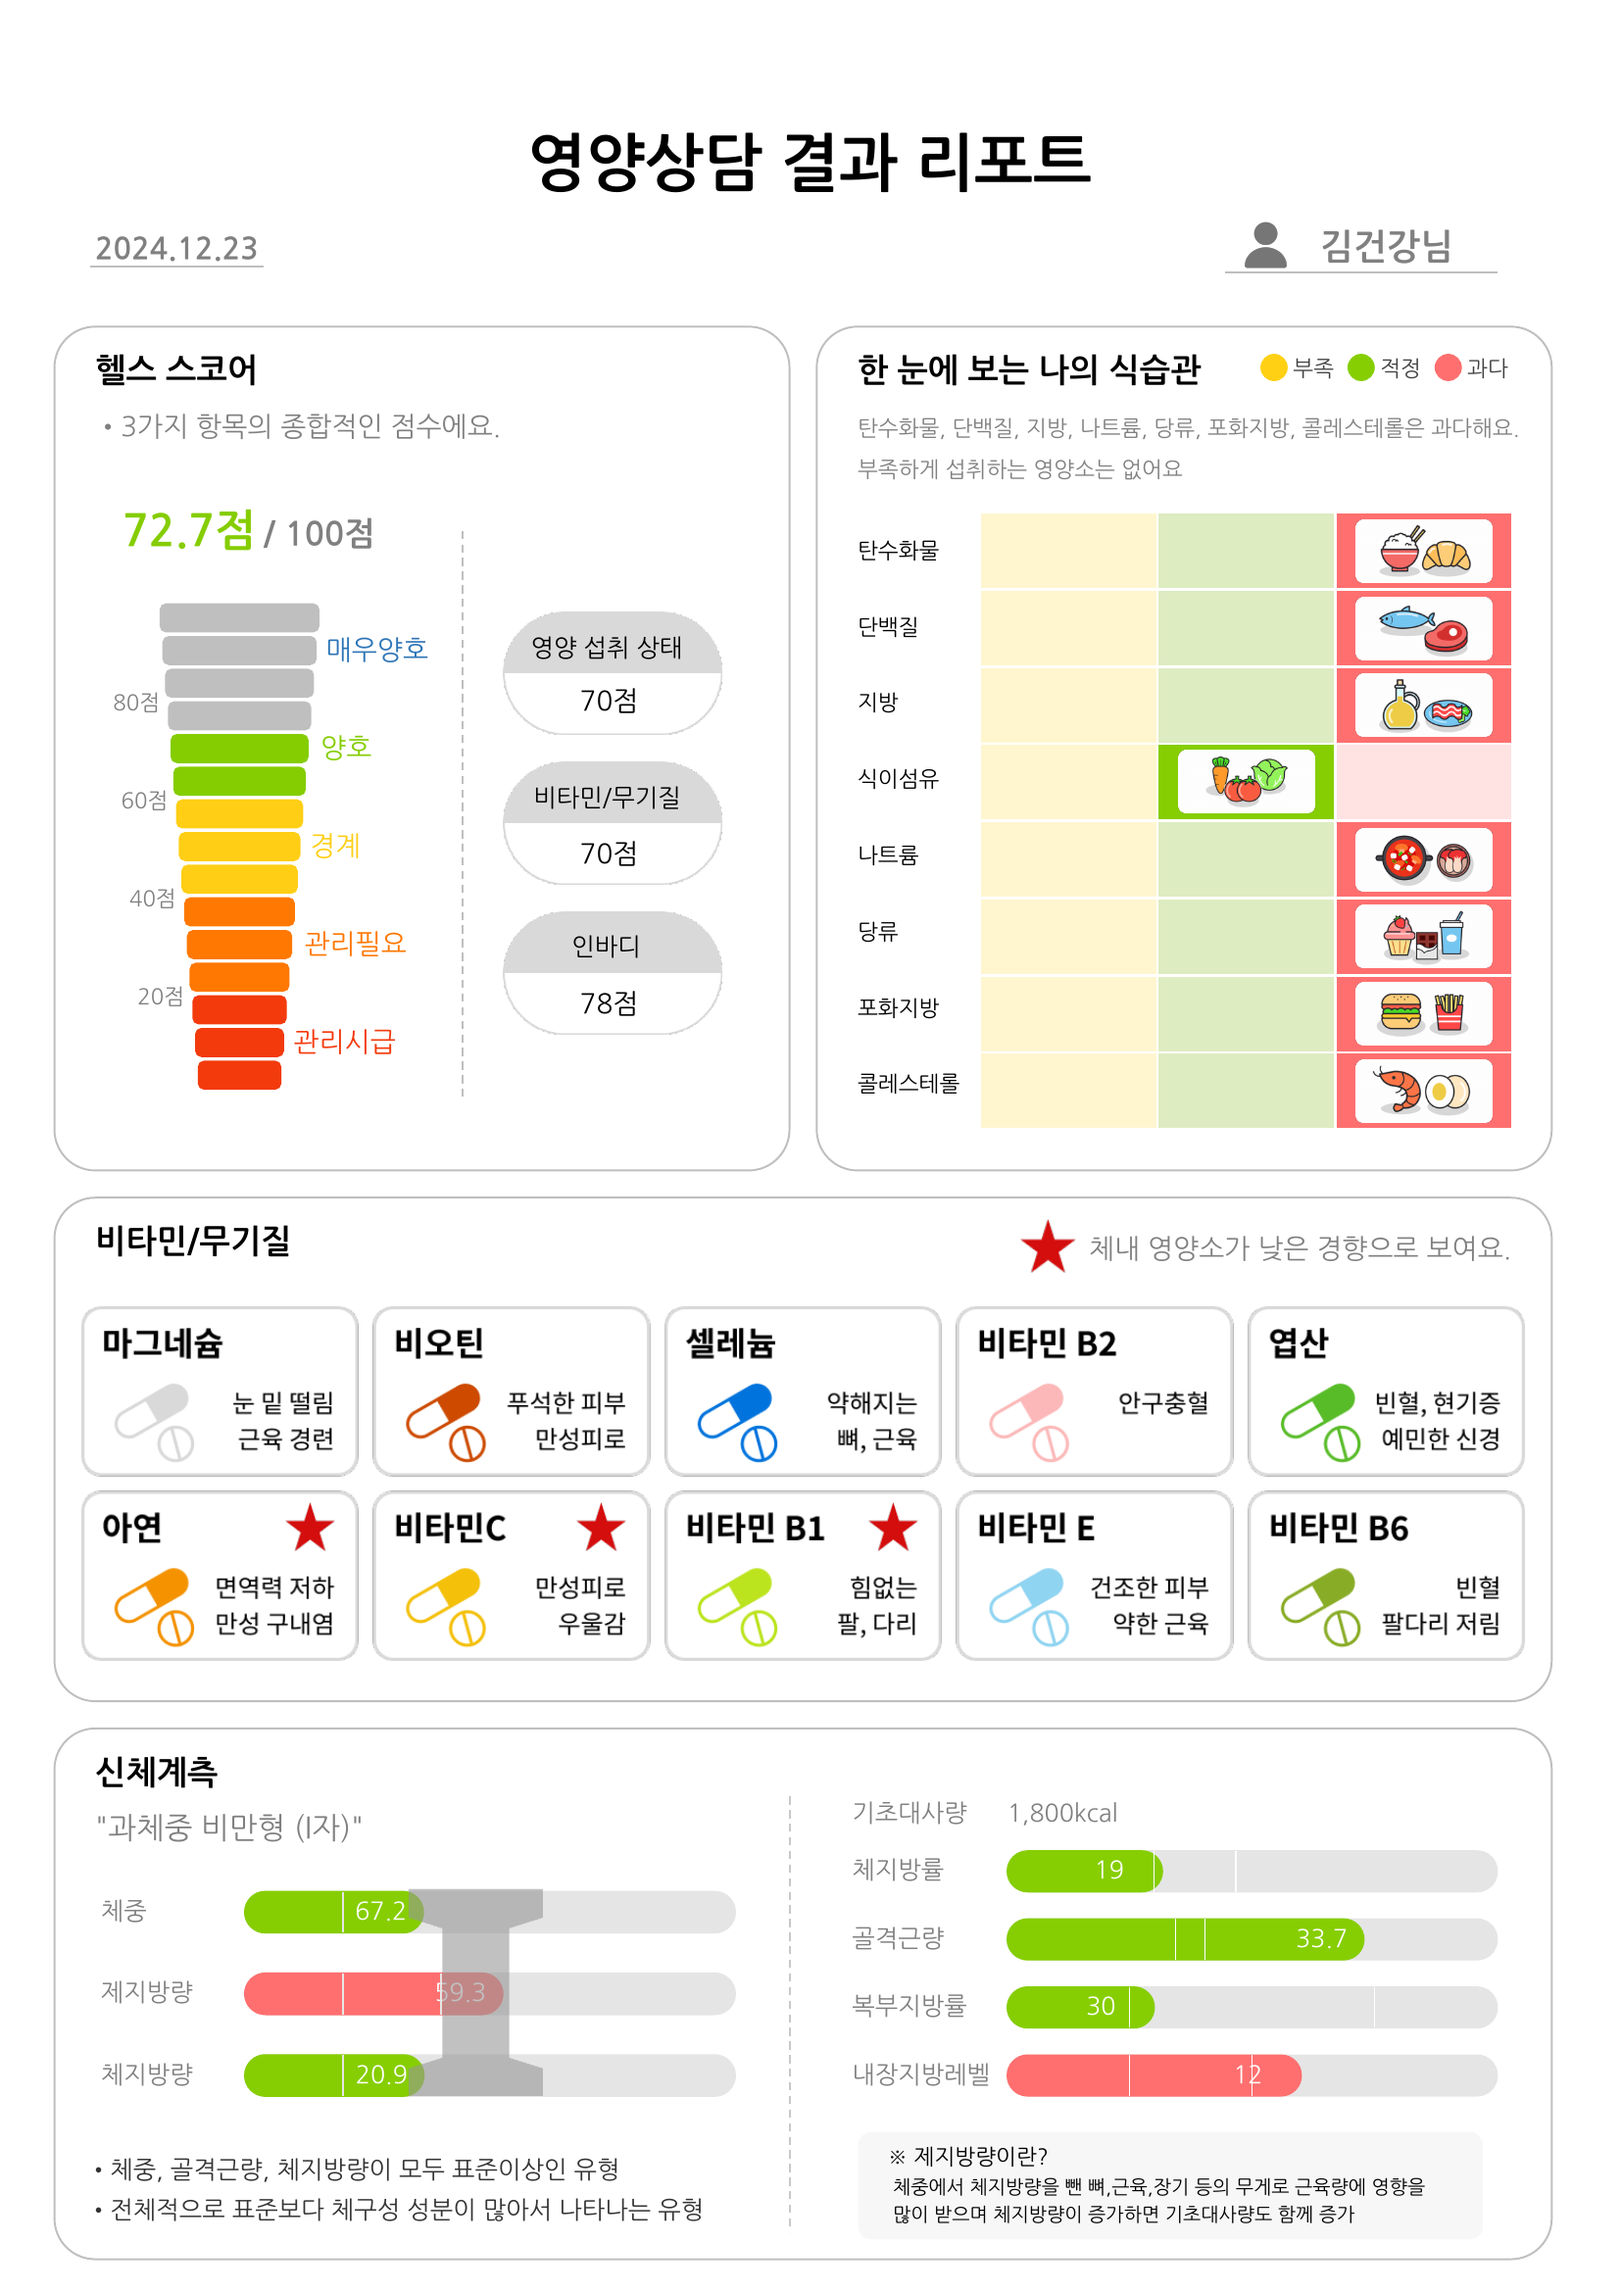
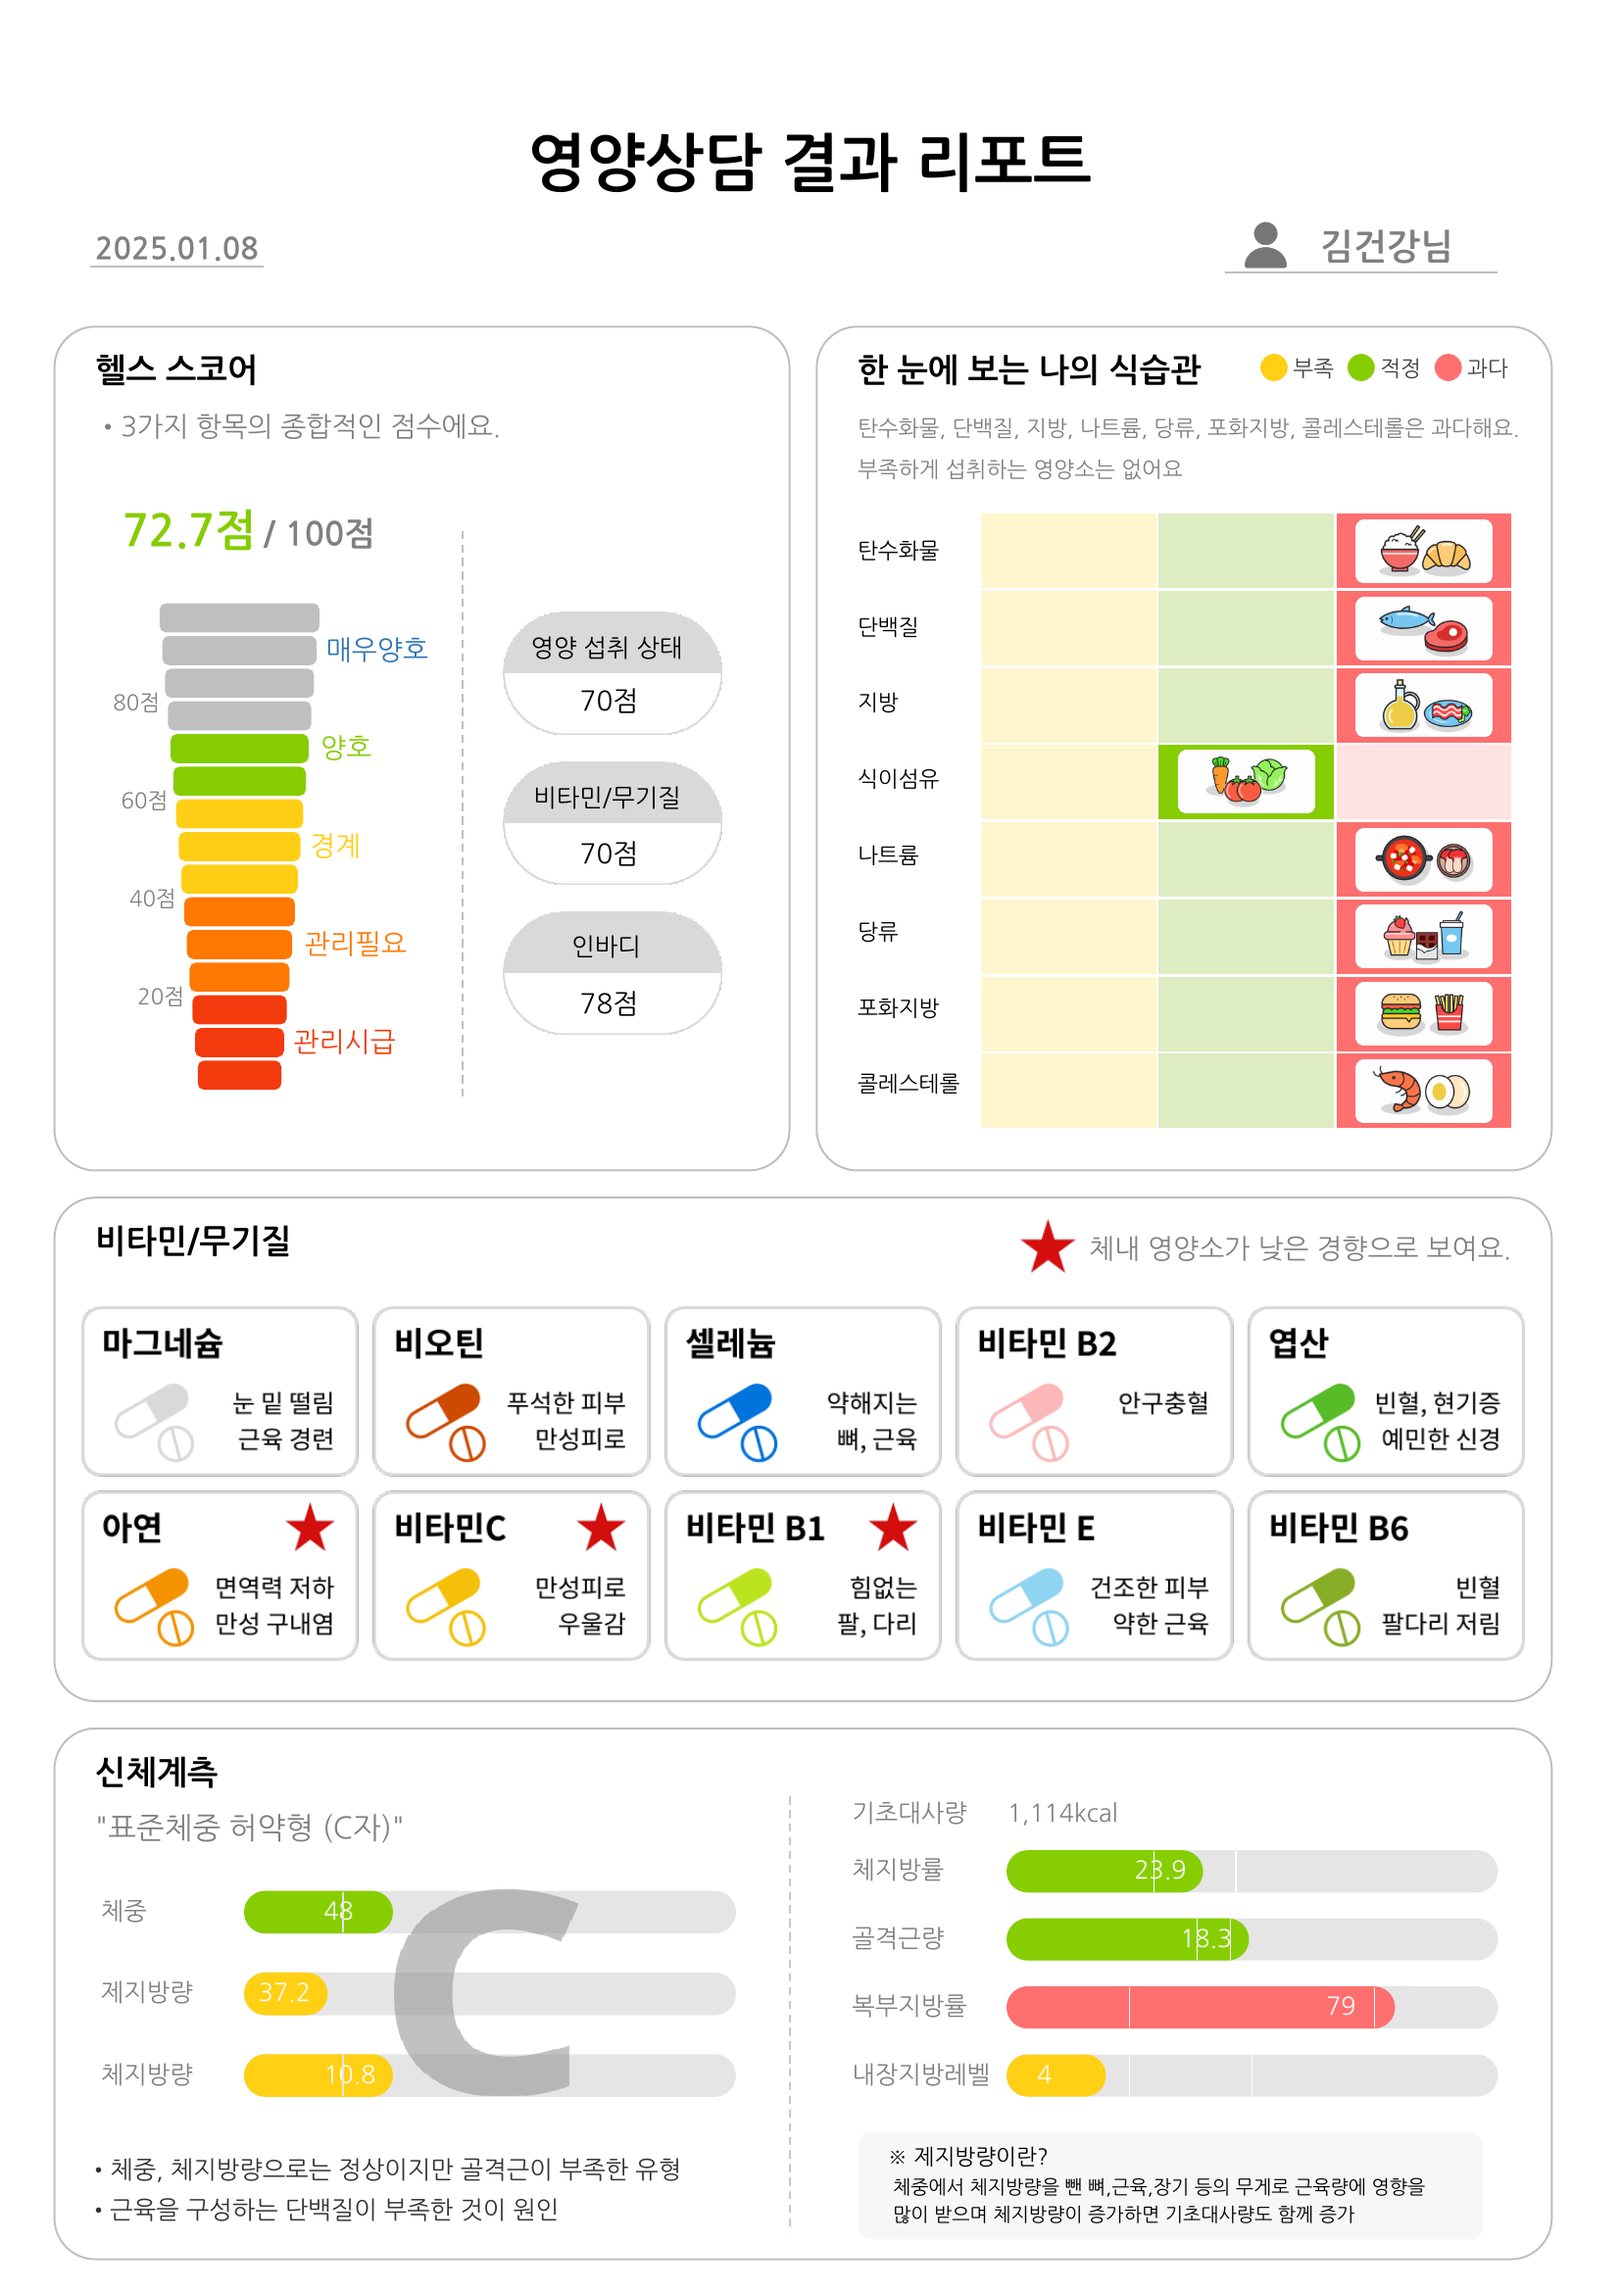
FS결과지 생성로직 변경(25.01.08)

diff --git a/createpdf.py b/createpdf.py
@@ -1002,7 +1002,7 @@ def draw_inbody(c,Inbody,height):
 
     return
 
-#인바디 그래프 그리기(270이하 기기)
+#인바디 그래프 그리기(피트러스 라이트)
 def draw_inbody_small(c,Inbody,UserHeight,Gender,height):
     SWeight=((UserHeight*UserHeight)/10000)*22
     if Gender=="남성":
@@ -1098,6 +1098,80 @@ def draw_inbody_small(c,Inbody,UserHeight,Gender,height):
     c.line(162, height - 755, 162, height - 770)
 
     return    
+
+#인바디 그래프 그리기(인바디 가정용)
+def draw_inbody_home(c,height,C_id,Inbody):
+    c.setFillColorRGB(0.9, 0.9, 0.9)
+    c.setStrokeColorRGB(0.9, 0.9, 0.9)
+    c.roundRect(90,height-710, 180, 15,7.5,fill=1)
+    c.roundRect(90,height-740, 180, 15,7.5,fill=1)
+    c.roundRect(90,height-770, 180, 15,7.5,fill=1)
+
+    if C_id=="D_ls" or C_id=="I_lw":
+        c.setFillColorRGB(1,208/255,20/255) #Yellow
+        c.setStrokeColorRGB(1,208/255,20/255)
+        c.roundRect(90,height-710, 30, 15,7.5,fill=1)
+        weightW=30
+    elif C_id=="C_sw" or C_id=="D_ss" or C_id=="I_sh" or C_id=="C_so":
+        c.setFillColorRGB(134/255,206/255,2/255) #Green
+        c.setStrokeColorRGB(134/255,206/255,2/255)
+        c.roundRect(90,height-710, 54, 15,7.5,fill=1)
+        weightW=54
+    elif C_id=="C_ow" or C_id=="D_os" or C_id=="I_oo":
+        c.setFillColorRGB(1,111/255,111/255) #Red
+        c.setStrokeColorRGB(1,111/255,111/255)
+        c.roundRect(90,height-710, 90, 15,7.5,fill=1)
+        weightW=90
+    c.setFillColorRGB(1,1,1)
+    c.drawString(65+weightW,height-710+5,str(Inbody.Weight))    
+
+    if C_id=="C_sw" or C_id == "C_so"or C_id=="I_lw":
+        c.setFillColorRGB(1,208/255,20/255) #Yellow
+        c.setStrokeColorRGB(1,208/255,20/255)
+        c.roundRect(90,height-740, 30, 15,7.5,fill=1)
+        fatfreeW=30
+    elif C_id=="I_sh" or C_id=="D_ls" or C_id=="C_ow":
+        c.setFillColorRGB(134/255,206/255,2/255) #Green
+        c.setStrokeColorRGB(134/255,206/255,2/255)
+        c.roundRect(90,height-740, 54, 15,7.5,fill=1)
+        fatfreeW=54
+    elif C_id=="D_ss" or C_id=="I_oo" or C_id=="D_os":
+        c.setFillColorRGB(134/255,206/255,2/255) #Green
+        c.setStrokeColorRGB(134/255,206/255,2/255)
+        c.roundRect(90,height-740, 90, 15,7.5,fill=1)
+        fatfreeW=90
+    c.setFillColorRGB(1,1,1)
+    c.drawString(65+fatfreeW,height-740+5,str(Inbody.Weight-Inbody.BodyFat)) 
+
+    if C_id=="D_ls" or C_id=="I_lw":
+        c.setFillColorRGB(134/255,206/255,2/255) #Green
+        c.setStrokeColorRGB(134/255,206/255,2/255)
+        c.roundRect(90,height-770, 30, 15,7.5,fill=1)
+        fatW=30
+    elif C_id=="C_sw" or C_id=="D_ss" or C_id=="I_sh" or C_id=="D_os":
+        c.setFillColorRGB(1,208/255,20/255) #Yellow
+        c.setStrokeColorRGB(1,208/255,20/255)
+        c.roundRect(90,height-770, 54, 15,7.5,fill=1)
+        fatW=54
+    elif C_id=="C_ow" or C_id=="C_so" or C_id=="I_oo":
+        c.setFillColorRGB(1,111/255,111/255) #Red
+        c.setStrokeColorRGB(1,111/255,111/255)
+        c.roundRect(90,height-770, 90, 15,7.5,fill=1)   
+        fatW=90 
+    c.setFillColorRGB(1,1,1)
+    c.drawString(65+fatW,height-770+5,str(Inbody.BodyFat))
+
+    c.setLineWidth(0.5)
+    c.setStrokeColorRGB(0.9,0.9,0.9)
+    c.line(126, height - 695, 126, height - 710)
+    c.line(126, height - 725, 126, height - 740)
+    c.line(126, height - 755, 126, height - 770)
+
+    c.line(162, height - 695, 162, height - 710)
+    c.line(162, height - 725, 162, height - 740)
+    c.line(162, height - 755, 162, height - 770)
+
+    return
 
 #인바디 그래프 그리기(270이하 추가 그래프_체지방률,골격근량,복주지방률,내장지방레벨)
 def draw_inbody_small_adddetail(c,Inbody,UserHeight,Gender,height):
@@ -1779,7 +1853,7 @@ def create_basic_pdf(Nutrition,Vitastiq,Inbody,Agesensor,Name,Gender,NutriD,Supp
 
     #-------------- part4 인바디 --------------
     # 본문 채우기 
-    if Inbody.InbodyScore==0 and Inbody.Weight==0 and Inbody.BodyFat==0 and Inbody.FatFree==0:
+    if Inbody.InbodyScore==0 and Inbody.Weight==0 and Inbody.BodyFat==0 :
         c.drawImage(filepath+"InbodyBlur.png", 30, height - 810, 250,157,mask='auto')
     else:    
         c.setFillColorRGB(0, 0, 0)
@@ -1804,7 +1878,9 @@ def create_basic_pdf(Nutrition,Vitastiq,Inbody,Agesensor,Name,Gender,NutriD,Supp
         c.setFillColorRGB(0.5, 0.5, 0.5)
         c.drawString(37,height-705,'체중')
         # FS용 분기 생성(24.12.12)
-        if Store=="판교점" or "FS":
+        if Store=="판교점":
+            c.drawString(37,height-735,'제지방량')
+        elif Store=="FS":
             c.drawString(37,height-735,'제지방량')
         else:    
             c.drawString(37,height-735,'골격근량')
@@ -1814,7 +1890,7 @@ def create_basic_pdf(Nutrition,Vitastiq,Inbody,Agesensor,Name,Gender,NutriD,Supp
         if Store=="판교점":
             draw_inbody_small(c,Inbody,Nutrition.UserHeight,Gender,height)
         elif Store=="FS":
-            draw_inbody_small(c,Inbody,Nutrition.UserHeight,Gender,height)
+            draw_inbody_home(c,height,Inbody_cat,Inbody)
         else:    
             draw_inbody(c,Inbody,height)
         draw_alpha(c,Inbody_cat,height)
@@ -2186,10 +2262,10 @@ def create_basic_pdf(Nutrition,Vitastiq,Inbody,Agesensor,Name,Gender,NutriD,Supp
 
 # PDF 생성 테스트용
 if __name__ == "__main__":
-    Nutri=Nutrition(EatScore=70, Carb="과다", Protein="과다", Fat="과다", Fiber="적정", Sodium="과다", Sugar="과다", SatFat="과다", Cholesterol="과다",UserHeight=167)
+    Nutri=Nutrition(EatScore=70, Carb="과다", Protein="과다", Fat="과다", Fiber="적정", Sodium="과다", Sugar="과다", SatFat="과다", Cholesterol="과다",UserHeight=159)
     Vita=Vitastiq(Unused=False,Biotin="", VitC="낮음", Mg="", VitB1="낮음", VitB2="", Zn="낮음", Se="", VitB6="", VitE="", Folate="")
-    Inbo=Inbody(InbodyScore=78,Weight=67.2,BodyFat=20.9,FatFree=59.3,ApproWeight=69.7,WeightMax=80.2,MuscleMax=36.5,FatMax=16.7,Recomcal=2581,SkeletalMuscle=33.7,BodyFatRatio=19,WaistHipRatio=30,VisceralFatLevel=12,BMR=1800)
+    Inbo=Inbody(InbodyScore=78,Weight=48,BodyFat=10.8,FatFree=0,ApproWeight=0,WeightMax=0,MuscleMax=0,FatMax=0,Recomcal=0,SkeletalMuscle=18.3,BodyFatRatio=23.9,WaistHipRatio=79,VisceralFatLevel=4,BMR=1114)
     Age=Agesensor(Rating="B",Rank=34)
     NutriD=NutritionDetail(CarbH=324.3,CarbV=74.9,ProteinL=34.9,ProteinV=19,FatH=66.5,FatV=22.6,FiberL=23.9,FiberV=8,SodiumH=2300,SodiumV=774,SugarH=50,SugarV=20.6,SatFatH=15.5,SatFatV=3.7,CholesterolH=300,CholesterolV=78)
     Supple=Supplements(sup1="추천 영양제 1번",sup2="추천 영양제 2번",sup3="추천 영양제 3번",sup4="추천 영양제 4번",inter1="근력",inter2="소화기/장건강",inter3="면역력")
-    create_basic_pdf(Nutri,Vita,Inbo,Age,"김건강","여성",NutriD,Supple,"FS","활동적",24,'과체중 비만형')
+    create_basic_pdf(Nutri,Vita,Inbo,Age,"김건강","여성",NutriD,Supple,"FS","활동적",24,'표준체중 허약형')
